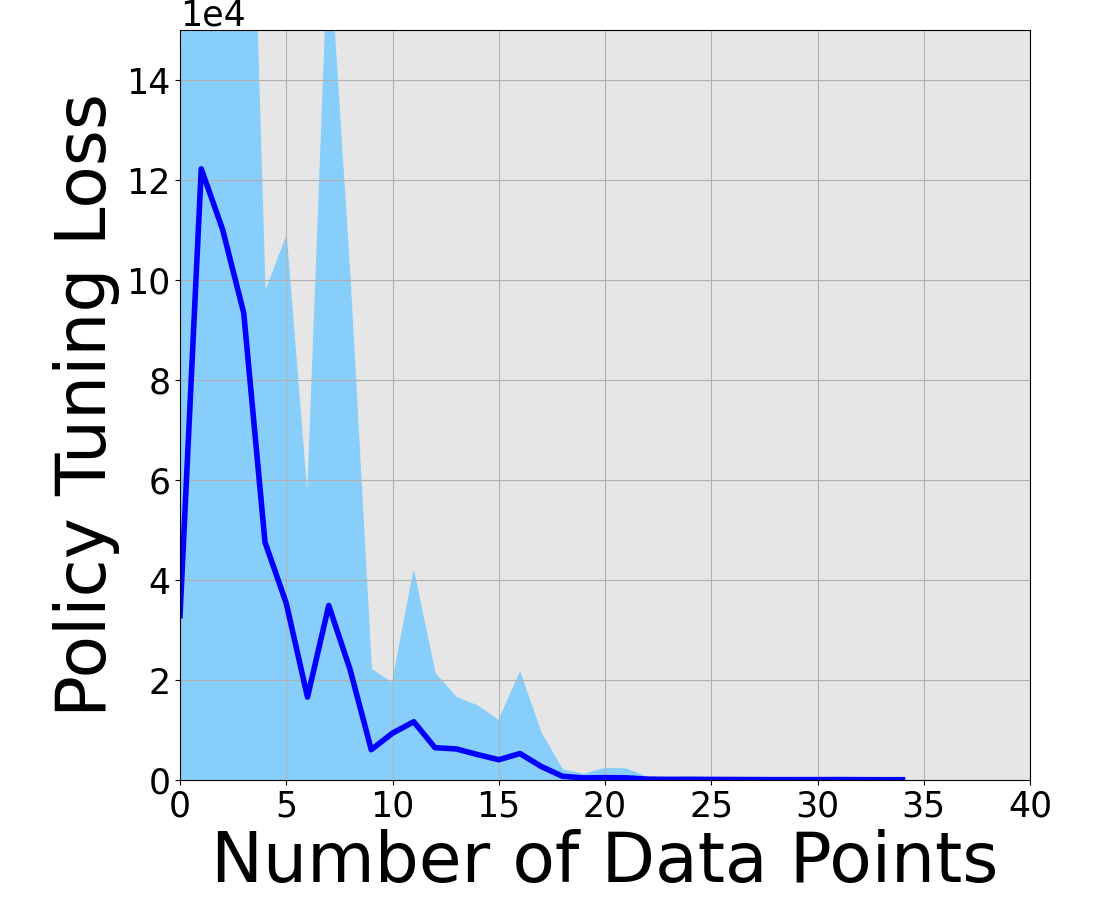
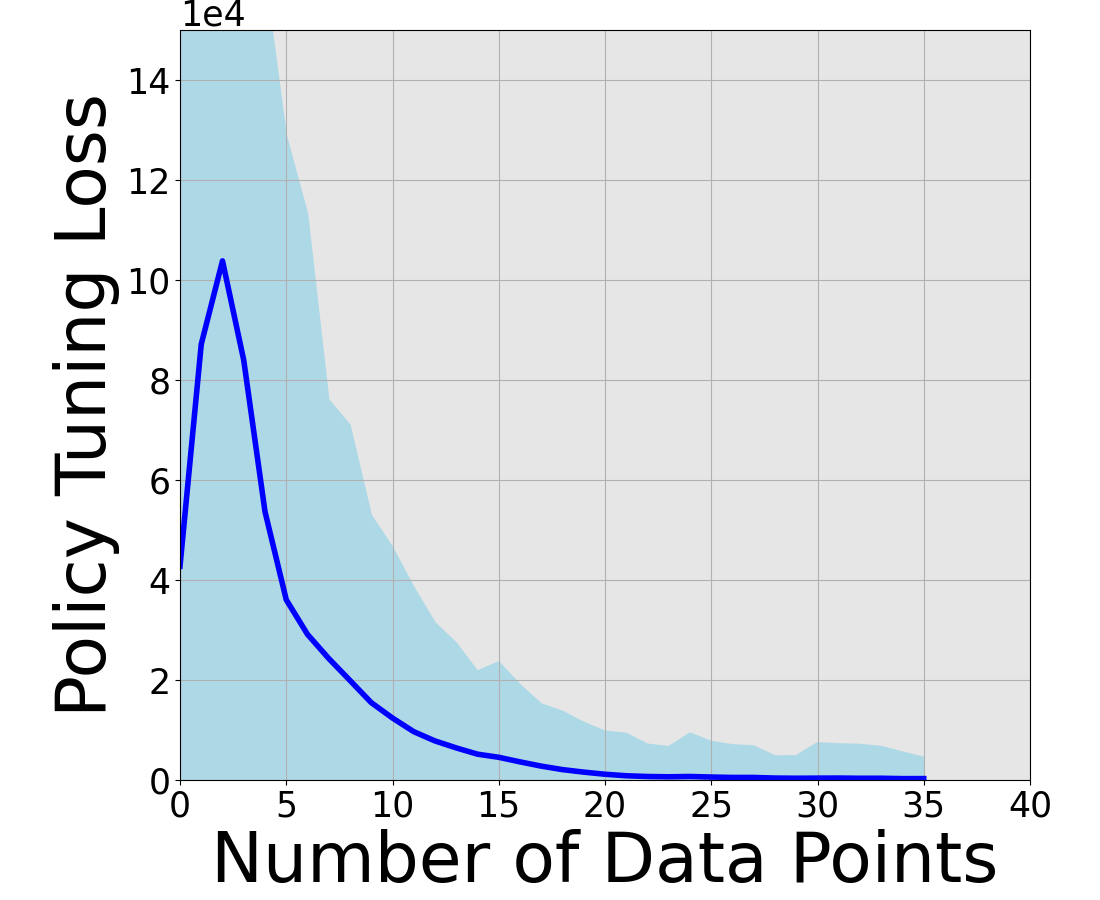
Update result figures, add the framework diagram to the README
The result figures are regenerated versions that add an OCIL run on noisy
measurements alongside the clean one, and fuller legends. Policy tuning on
the cart-pole is now a log-scale comparison against PDP and guided policy
search rather than a two-series linear plot.

Adds the framework diagram, which the README previously only described in
prose, and swaps the third figure in the results row from the rocket to the
cart-pole so that the noise comparison is visible on the front page.

The four largest figures are stored at 1600px wide rather than 2809px; the
README displays them at roughly a third of page width.

Changed region(s): [[0.1545, 0.0311, 0.8655, 0.8711]]

diff --git a/README.md b/README.md
@@ -14,9 +14,23 @@ differentiating the optimality conditions into a second, linear control problem.
 An extended Kalman filter then treats those parameters as a hidden state and
 corrects them with each new observation.
 
-There are no epochs, no replay buffer and no batch to wait for. The same update
-rule covers three tasks, depending on which part of the control problem is
-unknown.
+There are no epochs, no replay buffer and no batch to wait for. Because the
+filter carries an estimate of its own uncertainty, it also tolerates noisy
+measurements rather than fitting them.
+
+<p align="center">
+  <img src="images/OPDP_1.png" width="100%" alt="The OCIL loop: the parameter estimate drives the system, the gradient generator differentiates its trajectory, and the chain rule feeds the result back to the estimator.">
+</p>
+
+<p align="center">
+  <em>One update. The current estimate θ̂ produces a system trajectory ξ(θ̂). The
+  gradient generator differentiates that trajectory with respect to θ̂, the loss
+  is measured against the incoming observation O, and the chain rule turns the
+  two into the correction L that the estimator applies.</em>
+</p>
+
+The same update rule covers three tasks, depending on which part of the control
+problem is unknown.
 
 | Learning mode | What is unknown | What it learns from |
 |---|---|---|
@@ -27,16 +41,16 @@ unknown.
 <p align="center">
   <img src="images/IL_cartpole.png" width="32%" alt="Imitation learning on the cart-pole">
   <img src="images/SysID_uav.png" width="32%" alt="System identification on the quadrotor">
-  <img src="images/PT_rocket.png" width="32%" alt="Policy tuning on the rocket">
+  <img src="images/PT_cartpole.png" width="32%" alt="Policy tuning on the cart-pole">
 </p>
 
 <p align="center">
-  <em>Loss against the number of data points consumed, over five trials.
-  Left and centre: the red line marks one pass over the data. Everything to the
-  left of it is genuinely online — each point is seen once — and the dashed
-  continuation to the right reuses the same data offline.
-  Right: policy tuning against Pontryagin Differentiable Programming with a
-  polynomial policy, on a linear axis.</em>
+  <em>Loss against the number of data points consumed, over five trials, one
+  panel per learning mode. The red line in the first two marks one pass over the
+  data: to the left of it every point has been seen exactly once, and the dashed
+  continuation to the right reuses the same data offline. Each panel also plots
+  OCIL on noisy measurements — the paler series — which ends above the clean run
+  but still below every baseline.</em>
 </p>
 
 ## Installation
